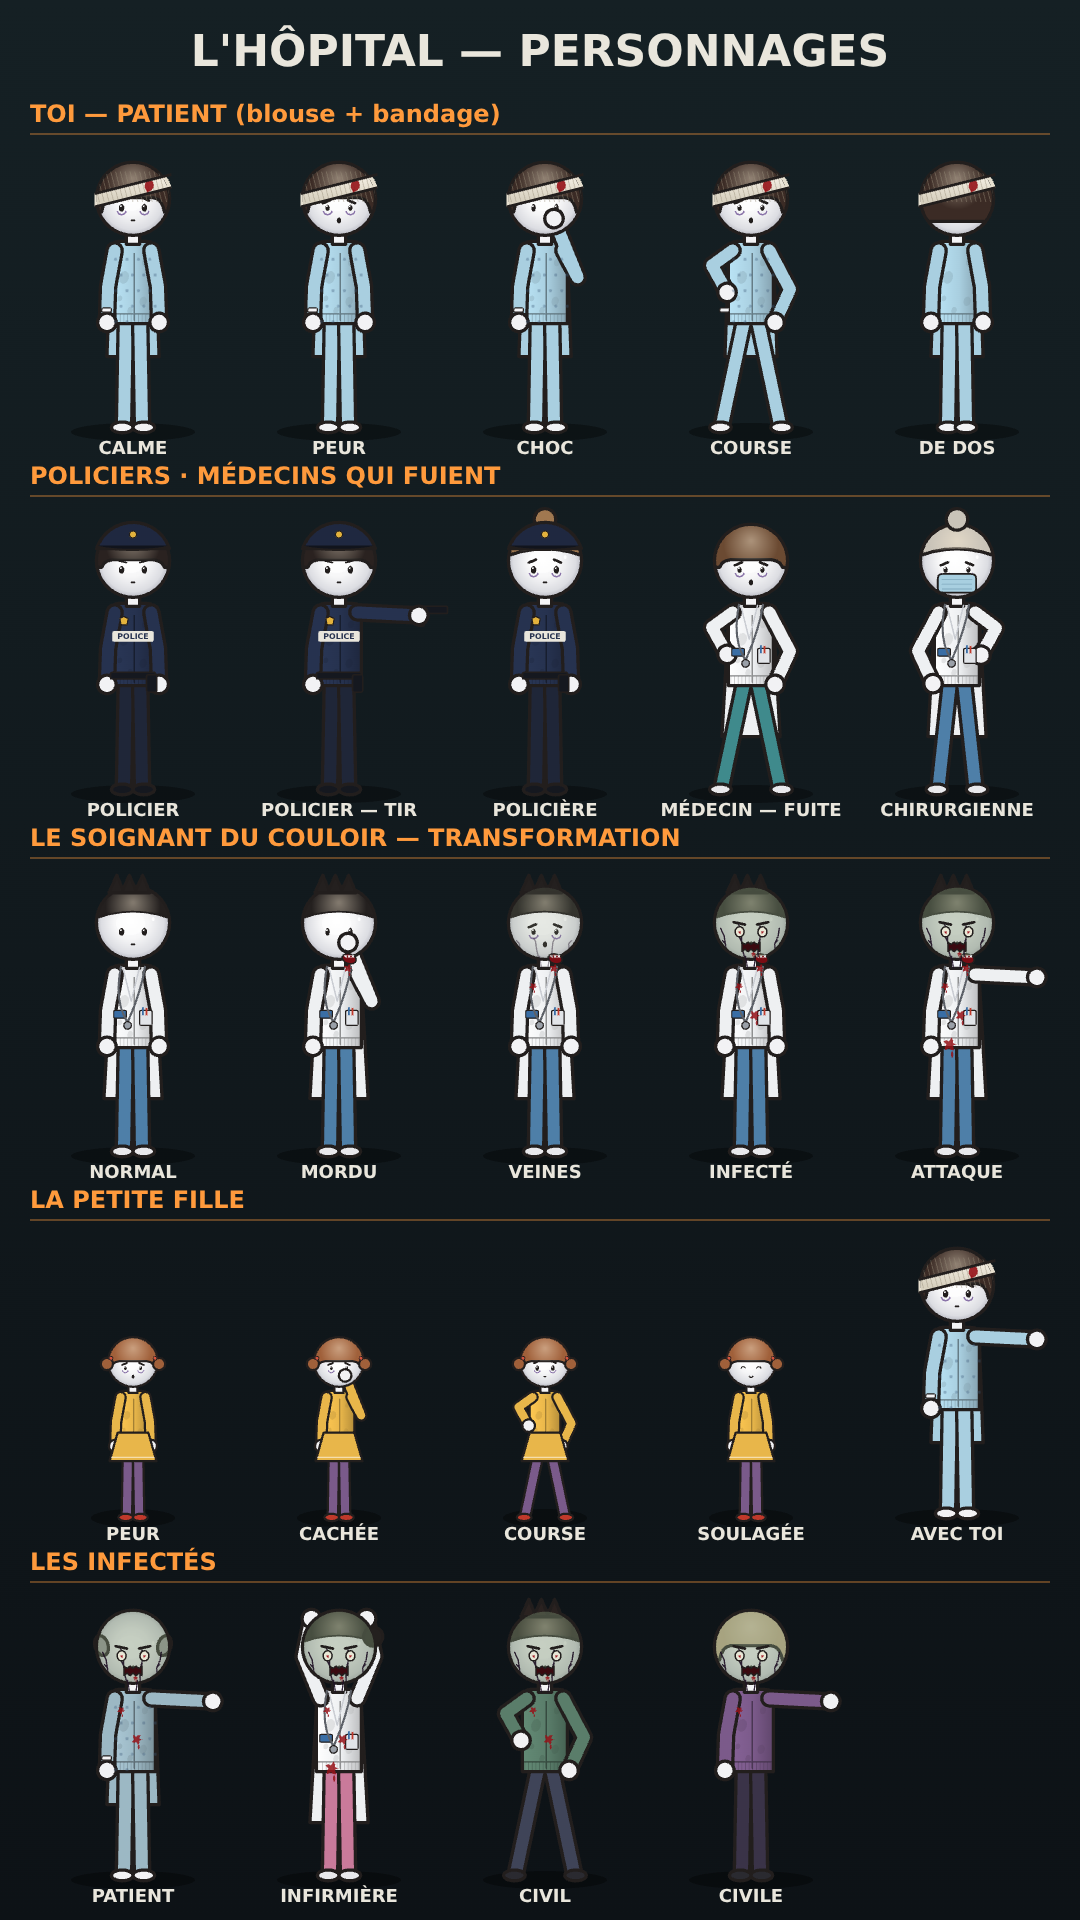
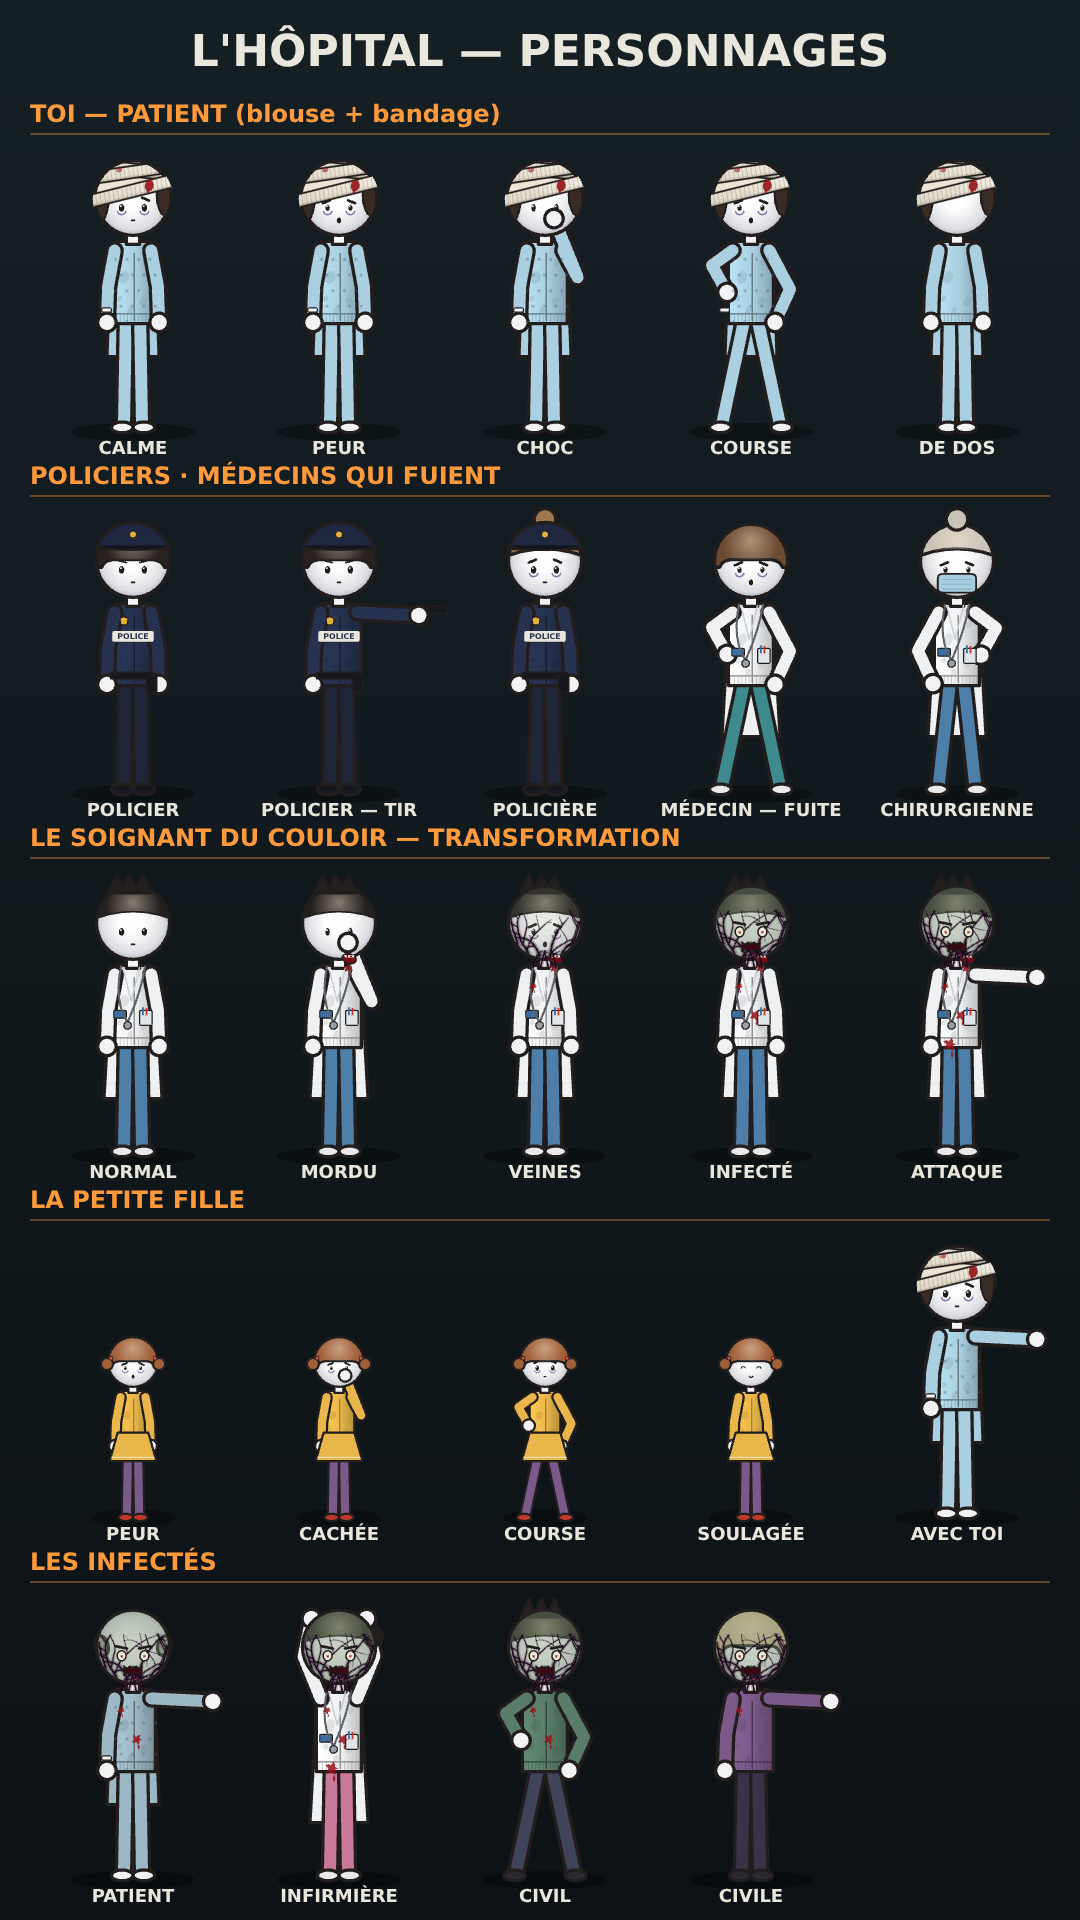
Hôpital : bandage sur tout le crâne, réseau de veines progressif
Héros : plus de frange, mèches sur les côtés, bandes croisées qui couvrent le haut de la tête.
Infectés : réseau ramifié de veines noires depuis le cou, apparition progressive (grow 0..1).

Claude-Session: https://claude.ai/code/session_0151hKPbvSgaLvTtgWaCHimf

diff --git a/studio/src/videos/hopital/persos.ts b/studio/src/videos/hopital/persos.ts
@@ -20,6 +20,44 @@ const blot = (g: CanvasRenderingContext2D, x: number, y: number, r: number, seed
   g.beginPath(); g.ellipse(x + r * 0.3, y + r * 1.25, r * 0.16, r * 0.4, 0, 0, 7); g.fill();          // coulure
 };
 
+// ---- réseau de veines noires : arbre ramifié qui part du cou et monte sur tout le visage.
+//      grow (0..1) = avancement : chaque segment a son instant d'apparition (distance depuis la racine), à animer progressivement.
+type Seg = { x0: number; y0: number; x1: number; y1: number; t0: number; t1: number; w: number };
+const NETS = new Map<string, Seg[]>();
+const rng = (seed: number) => () => { seed = (seed + 0x6d2b79f5) | 0; let t = Math.imul(seed ^ (seed >>> 15), 1 | seed); t = (t + Math.imul(t ^ (t >>> 7), 61 | t)) ^ t; return ((t ^ (t >>> 14)) >>> 0) / 4294967296; };
+const veinNet = (seed: number, neck: boolean): Seg[] => {
+  const key = `${seed}${neck}`; if (NETS.has(key)) return NETS.get(key)!;
+  const r = rng(seed * 977 + 13), segs: Seg[] = [], L = neck ? 110 : 230;
+  const grow = (x: number, y: number, a: number, w: number, d: number, depth: number) => {
+    let c = (r() - 0.5) * 0.12;
+    for (let i = 0; i < 40 && segs.length < (neck ? 80 : 300); i++) {
+      const len = (10 + r() * 7) * (depth ? 0.8 : 1); c = Math.max(-0.16, Math.min(0.16, c + (r() - 0.5) * 0.1)); a += c + (r() - 0.5) * 0.35;   // courbure qui dérive : veines sinueuses
+      const nx = x + Math.cos(a) * len, ny = y + Math.sin(a) * len;
+      if (!neck && (Math.hypot(nx - cx, ny - hy) > R - 6 || ny < hy - 46)) return;   // reste sur le visage, sous les cheveux
+      if (neck && ny < hy + R - 40) return;
+      segs.push({ x0: x, y0: y, x1: nx, y1: ny, t0: d / L, t1: (d + len) / L, w }); d += len; x = nx; y = ny; w = Math.max(1.6, w * 0.95);
+      if (r() < (depth ? 0.13 : 0.2) && depth < 3) grow(x, y, a + (r() < 0.5 ? -1 : 1) * (0.7 + r() * 0.6), w * 0.68, d, depth + 1);   // ramifications → capillaires
+      if (d > L) return;
+    }
+  };
+  if (neck) for (const x0 of [-40, -14, 12, 36]) grow(cx + x0, top + 10, -Math.PI / 2 + (r() - 0.5) * 0.5, 5.5, 0, 1);
+  else for (const x0 of [-88, -54, -18, 18, 54, 90]) { const y0 = hy + Math.sqrt(R * R - x0 * x0) - 6;
+    grow(cx + x0, y0, -Math.PI / 2 + x0 / R * 0.7 + (r() - 0.5) * 0.4, 6.5, 0, 0); }
+  NETS.set(key, segs); return segs;
+};
+const drawVeins = (g: CanvasRenderingContext2D, grow: number, seed: number, neck = false) => {
+  const segs = veinNet(seed, neck); g.save(); g.lineCap = "round";
+  for (const pass of [0, 1]) for (const sg of segs) {                                  // passe 0 : halo sombre diffus ; passe 1 : veine nette
+    if (grow <= sg.t0) continue;
+    const f = Math.min(1, (grow - sg.t0) / (sg.t1 - sg.t0)), age = Math.min(1, (grow - sg.t0) * 4);
+    g.beginPath(); g.moveTo(sg.x0, sg.y0); g.lineTo(sg.x0 + (sg.x1 - sg.x0) * f, sg.y0 + (sg.y1 - sg.y0) * f);
+    if (pass === 0) { g.strokeStyle = `rgba(60,20,50,${0.18 * age})`; g.lineWidth = sg.w * 3.2; }
+    else { g.strokeStyle = `rgba(22,10,26,${0.55 + 0.4 * age})`; g.lineWidth = sg.w; }
+    g.stroke();
+  }
+  g.restore();
+};
+
 export const drawPerso = (p: Pen, s: Perso) => {
   const g = p.g; g.save(); g.lineCap = "round"; g.lineJoin = "round";
   // ---- derrière le corps : pans de blouse (médecin) / jupe de blouse (patient) qui dépassent sous la taille
@@ -73,21 +111,43 @@ export const drawPerso = (p: Pen, s: Perso) => {
   }
   if (s.mask && front) { rrect(g, cx - 64, hy + 44, cx + 64, hy + 106, 16); g.fillStyle = "#a8cfe0"; g.fill(); stroke(g, 6);
     g.strokeStyle = "#7fa9bd"; g.lineWidth = 3; for (const y of [hy + 62, hy + 78, hy + 94]) { g.beginPath(); g.moveTo(cx - 50, y); g.lineTo(cx + 50, y); g.stroke(); } }
-  // ---- bandage de travers : haut à droite de l'image (au-dessus du sourcil), bas à gauche (mange la moitié du sourcil)
+  // ---- bandage : couvre tout le haut du crâne (bandes croisées, pas lisses) ; la bande basse est de travers
+  //      (gauche de l'image : mange la moitié du sourcil ; droite : au-dessus du sourcil) ; mèches qui dépassent sur les côtés
   if (s.bandage) {
-    const by = [[hy - 17, hy + 27], [hy - 81, hy - 37]];                                  // [haut, bas] côté gauche puis côté droit de l'image
+    const RB = R + 6, edge = (l: number, r: number) => (x: number) => l + (r - l) * (x - (cx - RB)) / (2 * RB);
+    const above = (f: (x: number) => number) => { g.beginPath(); g.moveTo(cx - RB - 20, hy - RB - 30); g.lineTo(cx + RB + 20, hy - RB - 30);
+      g.lineTo(cx + RB + 20, f(cx + RB + 20)); g.lineTo(cx - RB - 20, f(cx - RB - 20)); g.closePath(); };
+    const strip = (tl: number, bl: number, tr: number, br: number, c0: string, c1: string, fib: number) => {
+      const T = edge(tl, tr), B = edge(bl, br);
+      g.beginPath(); g.moveTo(cx - RB - 20, T(cx - RB - 20)); g.lineTo(cx + RB + 20, T(cx + RB + 20)); g.lineTo(cx + RB + 20, B(cx + RB + 20)); g.lineTo(cx - RB - 20, B(cx - RB - 20)); g.closePath();
+      const gr = g.createLinearGradient(0, Math.min(tl, tr), 0, Math.max(bl, br)); gr.addColorStop(0, c0); gr.addColorStop(1, c1); g.fillStyle = gr; g.fill();
+      g.save(); g.clip(); g.strokeStyle = "rgba(150,140,120,0.42)"; g.lineWidth = 3;
+      for (let k = -12; k < 26; k++) { const x = cx - RB + k * 15; g.beginPath(); g.moveTo(x, hy - RB - 20); g.lineTo(x + fib, hy + 40); g.stroke(); }
+      g.fillStyle = "rgba(90,70,50,0.16)"; g.beginPath(); g.moveTo(cx - RB - 20, B(cx - RB - 20) - 9); g.lineTo(cx + RB + 20, B(cx + RB + 20) - 9);  // ombre du pli
+      g.lineTo(cx + RB + 20, B(cx + RB + 20)); g.lineTo(cx - RB - 20, B(cx - RB - 20)); g.closePath(); g.fill(); g.restore();
+      g.beginPath(); g.moveTo(cx - RB - 20, T(cx - RB - 20)); g.lineTo(cx + RB + 20, T(cx + RB + 20)); g.lineCap = "butt"; stroke(g, 6);
+      g.beginPath(); g.moveTo(cx - RB - 20, B(cx - RB - 20)); g.lineTo(cx + RB + 20, B(cx + RB + 20)); stroke(g, 6); g.lineCap = "round";
+    };
+    // mèches sur les côtés, sous la bande (rien au-dessus des yeux)
     g.save(); g.beginPath(); g.arc(cx, hy, R - 1, 0, 7); g.clip();
-    g.beginPath(); g.moveTo(cx - R - 6, by[0][0]); g.lineTo(cx + R + 6, by[1][0]); g.lineTo(cx + R + 6, by[1][1]); g.lineTo(cx - R - 6, by[0][1]); g.closePath();
-    const bg = g.createLinearGradient(0, hy - 80, 0, hy + 1); bg.addColorStop(0, "#f6f1e6"); bg.addColorStop(1, "#d8d1c0"); g.fillStyle = bg; g.fill();
-    g.strokeStyle = "rgba(150,140,120,0.45)"; g.lineWidth = 3;                                                       // fibres du tissu, inclinées
-    for (let k = -8; k < 22; k++) { const x = cx - R + k * 16; g.beginPath(); g.moveTo(x, hy - 90); g.lineTo(x + 26, hy + 10); g.stroke(); }
-    g.fillStyle = "rgba(150,18,24,0.9)"; g.beginPath(); g.ellipse(cx + 54, hy - 44, 15, 19, 0.2, 0, 7); g.fill();       // tache de sang (côté haut)
+    for (const sx of [-1, 1]) { g.beginPath(); g.moveTo(cx + sx * (R + 4), hy - 80); g.lineTo(cx + sx * R * 0.66, hy - 80);
+      g.quadraticCurveTo(cx + sx * R * 0.6, hy + 20, cx + sx * R * 0.78, hy + (sx < 0 ? 66 : 50)); g.lineTo(cx + sx * (R + 4), hy + 70); g.closePath();
+      g.fillStyle = s.hairColor; g.fill(); stroke(g, 7); }
+    g.restore();
+    const main = [hy - 17, hy + 27, hy - 81, hy - 37];                                    // bande basse [haut G, bas G, haut D, bas D]
+    g.save(); above(edge(main[0] + 2, main[2] + 2)); g.clip();                            // dôme de bandage au-dessus de la bande basse
+    g.beginPath(); g.arc(cx, hy, RB, 0, 7); g.fillStyle = "#ebe4d4"; g.fill(); g.save(); g.clip();
+    strip(hy - 190, hy - 128, hy - 150, hy - 108, "#f3eee3", "#ddd5c3", 22);              // couronne
+    strip(hy - 132, hy - 84, hy - 104, hy - 62, "#efe8da", "#d9d1bf", -30);               // bande inclinée dans l'autre sens
+    strip(hy - 92, hy - 50, hy - 128, hy - 88, "#f5f0e6", "#dcd4c2", 30);                 // bande dans le sens de la bande basse
+    g.fillStyle = "rgba(150,18,24,0.55)"; g.beginPath(); g.ellipse(cx - 46, hy - 96, 11, 8, -0.3, 0, 7); g.fill();   // sang qui a traversé
+    g.restore(); g.beginPath(); g.arc(cx, hy, RB, 0, 7); stroke(g); g.restore();
+    // bande basse de travers (par-dessus), dépasse un peu du crâne
+    g.save(); g.beginPath(); g.arc(cx, hy, RB + 6, 0, 7); g.clip();
+    strip(main[0], main[1], main[2], main[3], "#f6f1e6", "#d8d1c0", 26);
+    g.fillStyle = "rgba(150,18,24,0.9)"; g.beginPath(); g.ellipse(cx + 54, hy - 44, 15, 19, 0.2, 0, 7); g.fill();     // tache de sang + coulure
     g.beginPath(); g.ellipse(cx + 49, hy - 24, 3.5, 8, 0, 0, 7); g.fill();
     g.restore();
-    g.save(); g.beginPath(); g.arc(cx, hy, R + 12, 0, 7); g.arc(cx, hy, R - 1, 0, 7, true); g.clip();                    // bandes qui dépassent du crâne (bords)
-    g.beginPath(); g.moveTo(cx - R - 6, by[0][0]); g.lineTo(cx + R + 6, by[1][0]); g.lineTo(cx + R + 6, by[1][1]); g.lineTo(cx - R - 6, by[0][1]); g.closePath(); g.fillStyle = "#e6dfcf"; g.fill(); g.restore();
-    g.beginPath(); g.moveTo(cx - R - 6, by[0][0]); g.lineTo(cx + R + 6, by[1][0]); g.moveTo(cx - R - 6, by[0][1]); g.lineTo(cx + R + 6, by[1][1]); g.lineCap = "butt"; stroke(g, 9);
-    g.lineCap = "round";
   }
   // ---- sang (taches sur la tenue)
   for (let i = 0; i < (s.blood ?? 0); i++) blot(g, cx - 40 + ((i * 53) % 90), top + 70 + ((i * 97) % 200), 14 + (i % 3) * 6, i + 1);
@@ -99,11 +159,7 @@ export const drawPerso = (p: Pen, s: Perso) => {
   if (k > 0 && front) {
     g.save(); g.beginPath(); g.arc(cx, hy, R - 5, 0, 7); g.clip();
     g.fillStyle = `rgba(120,140,110,${0.42 * k})`; g.fillRect(cx - R, hy - R, 2 * R, 2 * R);
-    g.strokeStyle = `rgba(28,14,34,${0.9 * k})`; g.lineWidth = 4.5;
-    const vein = (x: number, y: number, dx: number, dy: number, n: number) => { g.beginPath(); g.moveTo(x, y); let px = x, py = y;
-      for (let i = 0; i < n; i++) { px += dx + Math.sin(i * 2.7 + x) * 9; py += dy; g.lineTo(px, py); if (i === 1) { g.moveTo(px, py); g.lineTo(px + dx * 1.6, py + dy * 0.4); g.moveTo(px, py); } } g.stroke(); };
-    const h = Math.round(4 * k);
-    vein(cx - 70, hy + R, -6, -26, h); vein(cx + 66, hy + R, 6, -26, h); vein(cx - 20, hy + R, -4, -30, h); vein(cx + 24, hy + R, 3, -28, h);
+    drawVeins(g, Math.min(1, k / 0.7), 1);
     g.restore();
     if (k > 0.5) {
       for (const sx of [-1, 1]) { g.beginPath(); g.ellipse(cx + sx * 38, hy + 30, 15, 17, 0, 0, 7); g.fillStyle = "#e9e7d6"; g.fill(); stroke(g, 5);
@@ -113,8 +169,7 @@ export const drawPerso = (p: Pen, s: Perso) => {
       for (let i = 6; i >= 0; i--) g.lineTo(cx - 30 + i * 10, hy + 96 - (i % 2 ? 8 : 0)); g.closePath(); g.fillStyle = "#3a0a10"; g.fill(); stroke(g, 5);
       blot(g, cx + 8, hy + 104, 9, 5);
     }
-    // veines sur le cou / col
-    g.strokeStyle = `rgba(28,14,34,${0.9 * k})`; g.lineWidth = 4; for (const dx of [-12, 10]) { g.beginPath(); g.moveTo(cx + dx, top + 8); g.lineTo(cx + dx * 1.5, hy + R - 10); g.stroke(); }
+    g.save(); g.beginPath(); g.rect(cx - 70, hy + R - 30, 140, top - hy - R + 40); g.clip(); drawVeins(g, Math.min(1, k / 0.7), 2, true); g.restore();   // cou
   }
   g.restore();
 };

diff --git a/studio/src/videos/hopital/Planche.tsx b/studio/src/videos/hopital/Planche.tsx
@@ -4,7 +4,7 @@ import { AbsoluteFill, continueRender, delayRender } from "remotion";
 import { Pen } from "../bridge/toon";
 import { drawPerso, Perso } from "./persos";
 
-const TOI: Perso = { role: "patient", pose: "stand", expr: "worry", jacket: "#a9cfe0", pants: "#a9cfe0", shoes: "#f2f2f4", hair: "bob", hairColor: "#3b2b25", bandage: true };
+const TOI: Perso = { role: "patient", pose: "stand", expr: "worry", jacket: "#a9cfe0", pants: "#a9cfe0", shoes: "#f2f2f4", hair: "bald", hairColor: "#3b2b25", bandage: true };
 const FLIC: Perso = { role: "police", pose: "stand", expr: "frown", jacket: "#26324f", pants: "#1f2638", shoes: "#15181f", hair: "fringe", hairColor: "#2a2220" };
 const DOC: Perso = { role: "medecin", pose: "stand", expr: "worry", jacket: "#eef0f2", pants: "#3f8a8c", shoes: "#e9e9ec", hair: "fringe", hairColor: "#6b4a32" };
 const SOIGNANT: Perso = { role: "medecin", pose: "stand", expr: "calm", jacket: "#eef0f2", pants: "#4e7fa8", shoes: "#e9e9ec", hair: "spiky", hairColor: "#24201f" };
